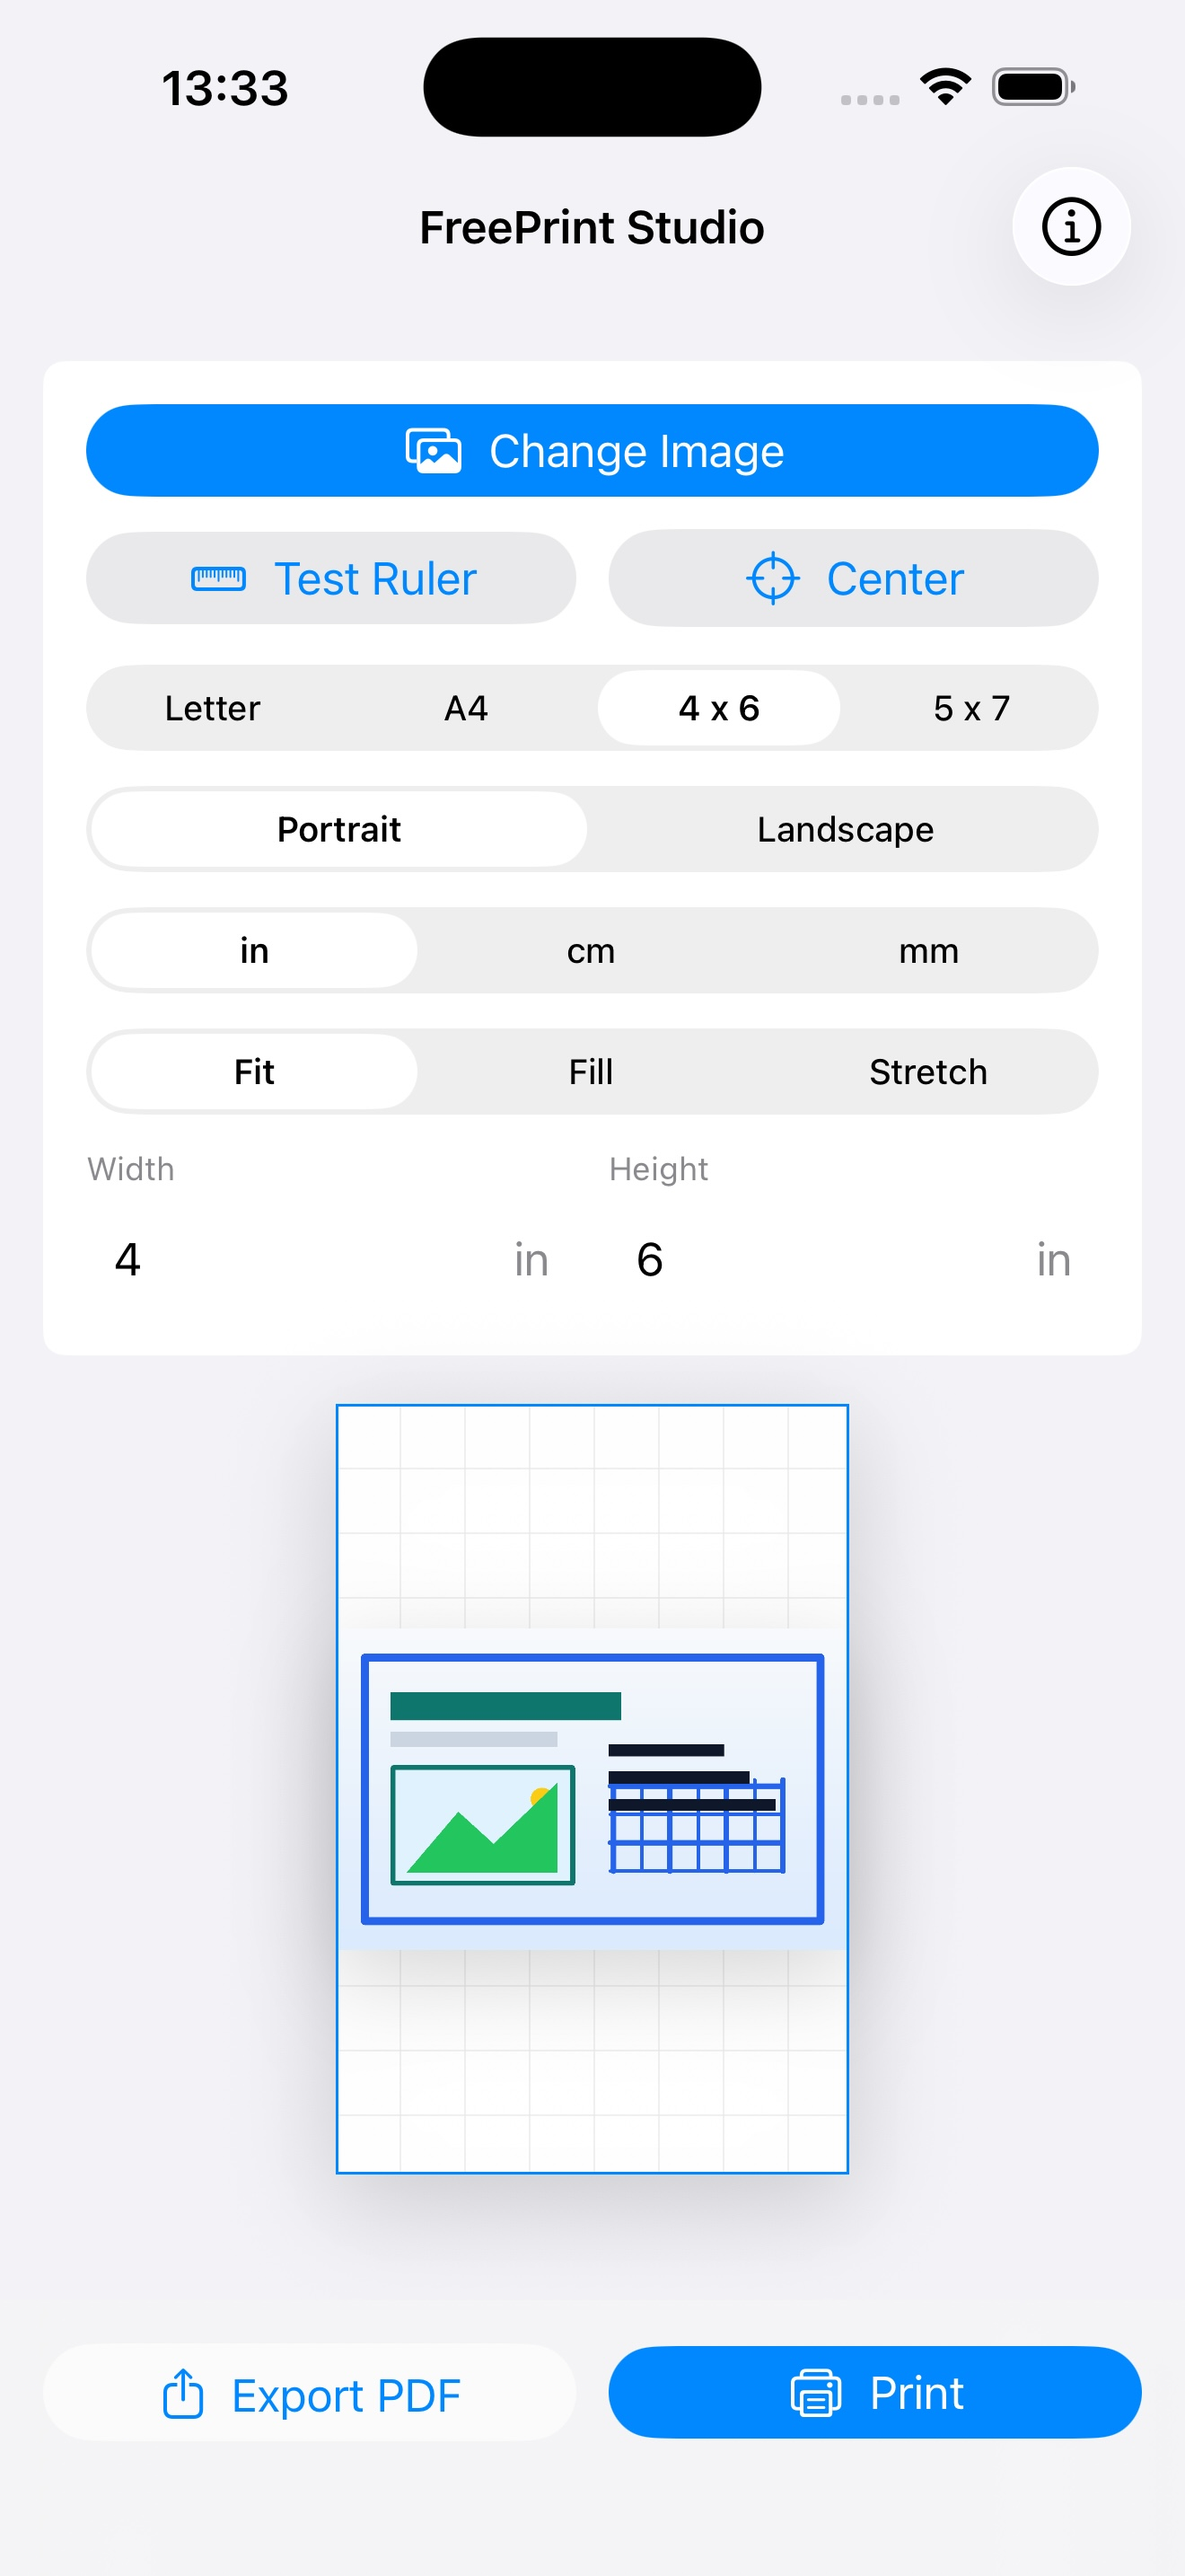
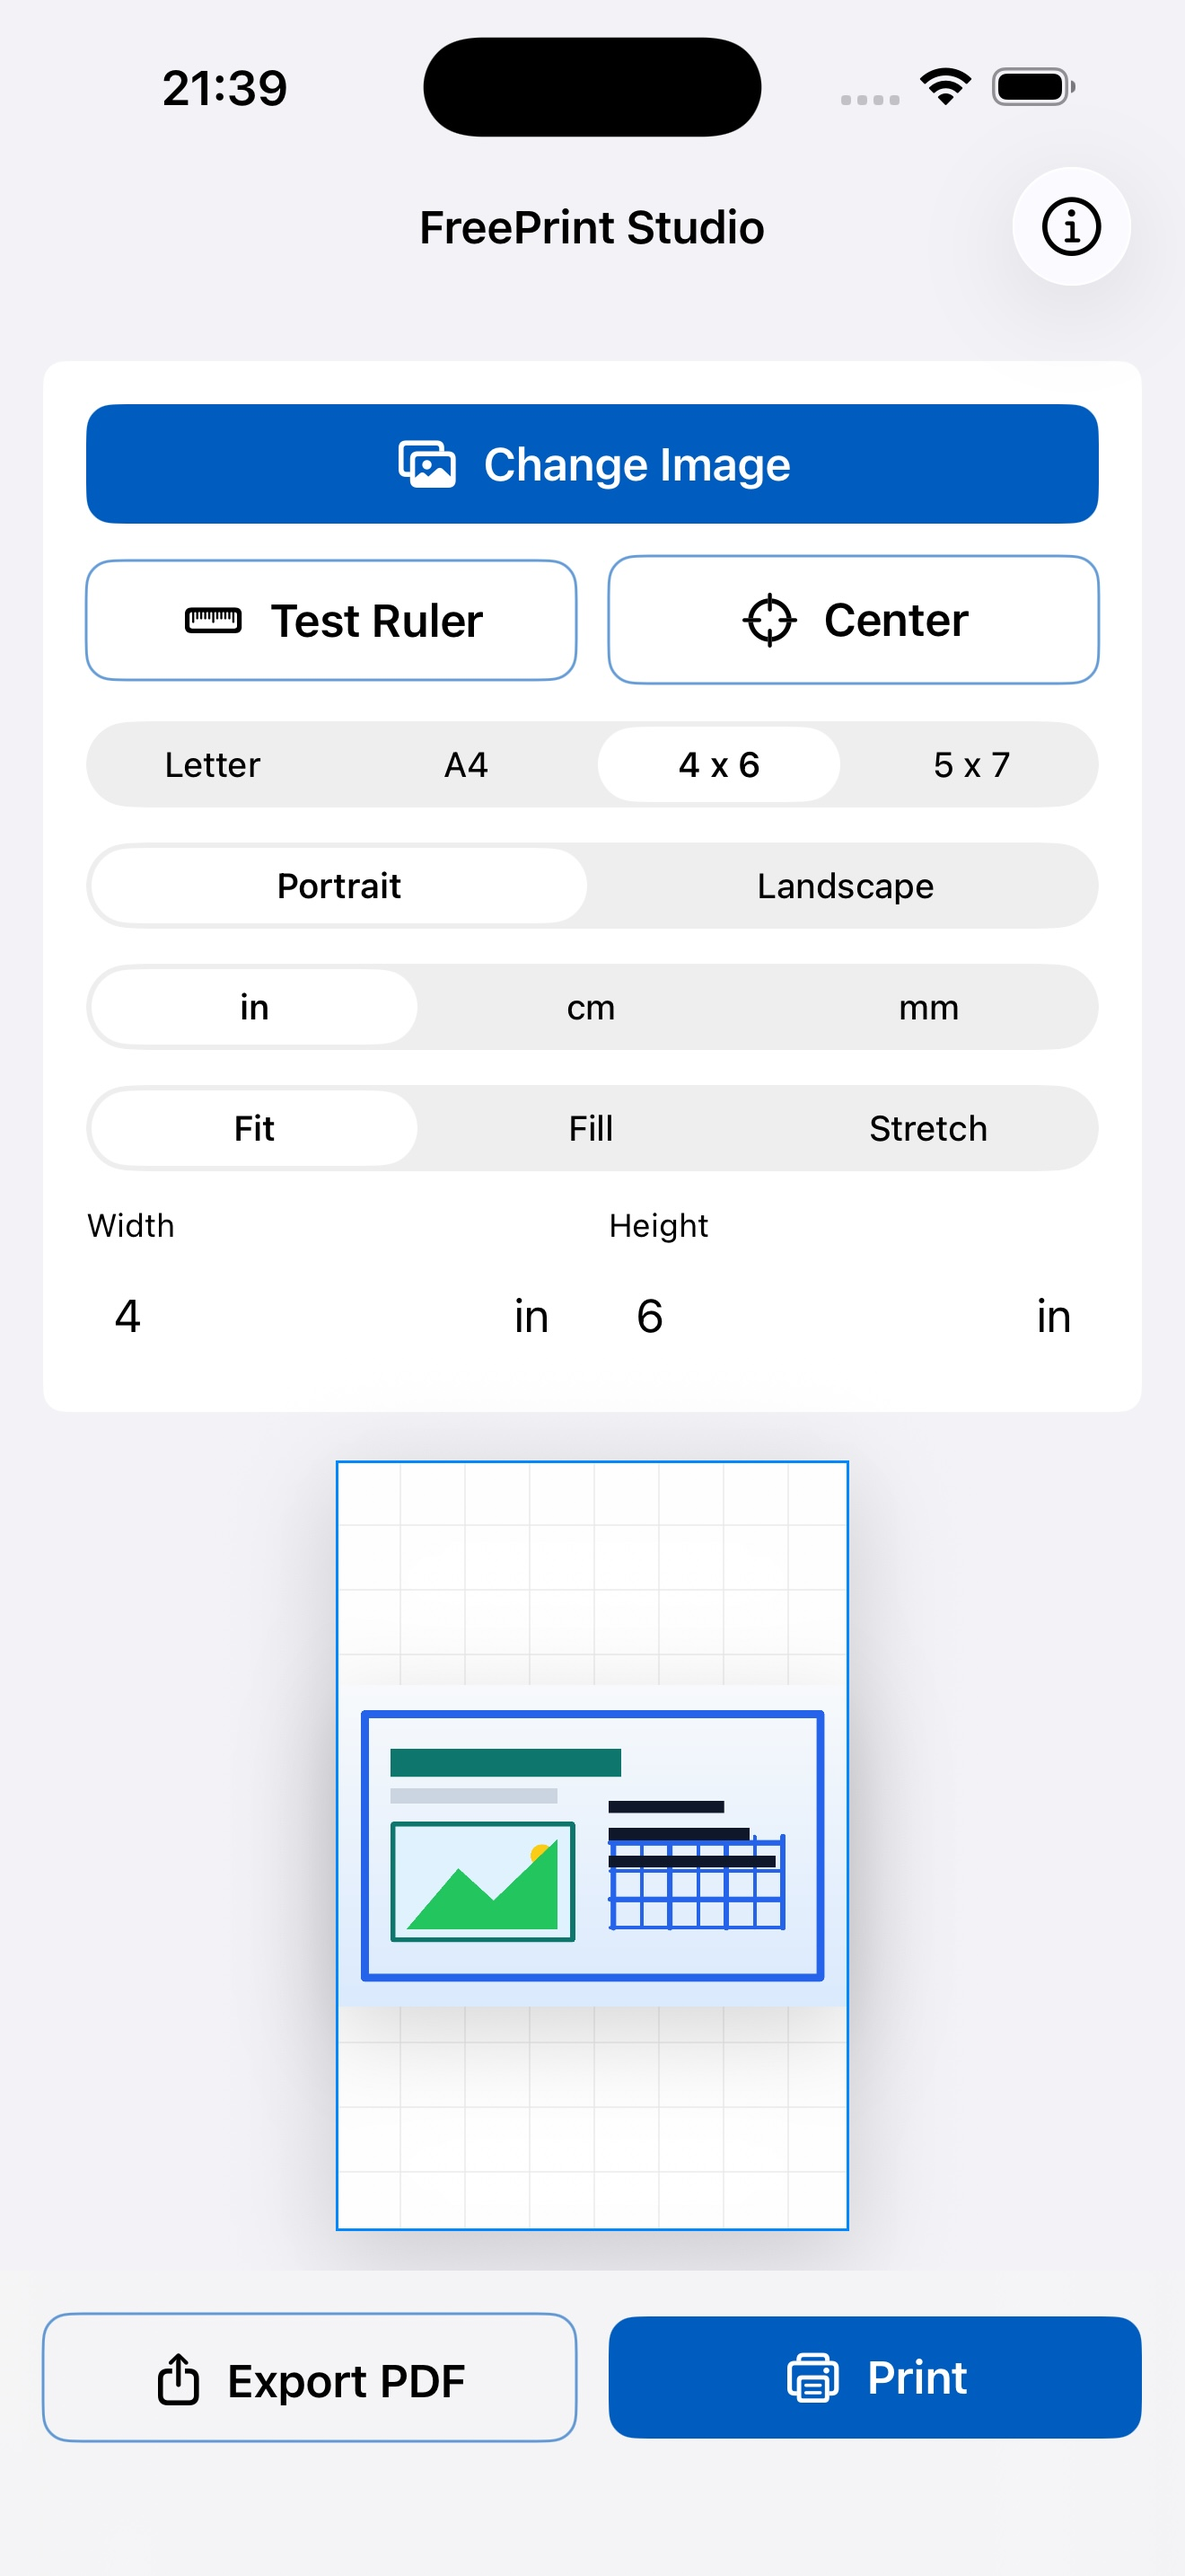
Prepare accessible App Store build 2

diff --git a/FreePrintStudio/ContentView.swift b/FreePrintStudio/ContentView.swift
@@ -203,7 +203,7 @@ struct ContentView: View {
                 systemImage: "photo.on.rectangle"
             )
         }
-        .buttonStyle(.borderedProminent)
+        .buttonStyle(OutputActionButtonStyle(isProminent: true))
         .accessibilityLabel(selectedImage == nil ? "Choose Image" : "Change Image")
         .accessibilityHint("Select or replace the image used for the print layout.")
     }
@@ -214,7 +214,7 @@ struct ContentView: View {
         } label: {
             commandLabel("Test Ruler", systemImage: "ruler")
         }
-        .buttonStyle(.bordered)
+        .buttonStyle(OutputActionButtonStyle(isProminent: false))
         .accessibilityLabel("Test Ruler")
         .accessibilityHint("Load a built-in six inch calibration ruler for exact-size print checks.")
     }
@@ -225,7 +225,7 @@ struct ContentView: View {
         } label: {
             commandLabel("Center", systemImage: "scope")
         }
-        .buttonStyle(.bordered)
+        .buttonStyle(OutputActionButtonStyle(isProminent: false))
         .disabled(isDisabled)
         .accessibilityLabel("Center")
         .accessibilityHint("Center the target print area on the selected paper.")
@@ -275,7 +275,7 @@ struct ContentView: View {
         } label: {
             commandLabel("Export PDF", systemImage: "square.and.arrow.up")
         }
-        .buttonStyle(.bordered)
+        .buttonStyle(OutputActionButtonStyle(isProminent: false))
         .disabled(!isOutputReady)
         .accessibilityLabel("Export PDF")
         .accessibilityHint("Create a PDF with the selected paper, size, and image placement.")
@@ -287,7 +287,7 @@ struct ContentView: View {
         } label: {
             commandLabel("Print", systemImage: "printer")
         }
-        .buttonStyle(.borderedProminent)
+        .buttonStyle(OutputActionButtonStyle(isProminent: true))
         .disabled(!isOutputReady)
         .accessibilityLabel("Print")
         .accessibilityHint("Open the system print sheet for the prepared PDF.")
@@ -701,6 +701,55 @@ struct ContentView: View {
     #endif
 }
 
+private struct OutputActionButtonStyle: ButtonStyle {
+    @Environment(\.isEnabled) private var isEnabled
+
+    let isProminent: Bool
+
+    func makeBody(configuration: Configuration) -> some View {
+        configuration.label
+            .font(.headline)
+            .foregroundStyle(foregroundColor)
+            .padding(.horizontal, 16)
+            .padding(.vertical, 12)
+            .background {
+                RoundedRectangle(cornerRadius: 10, style: .continuous)
+                    .fill(backgroundColor)
+            }
+            .overlay {
+                RoundedRectangle(cornerRadius: 10, style: .continuous)
+                    .stroke(borderColor, lineWidth: 1)
+            }
+            .contentShape(Rectangle())
+            .opacity(configuration.isPressed ? 0.82 : 1)
+    }
+
+    private var foregroundColor: Color {
+        if !isEnabled {
+            return Color(.label)
+        }
+        return isProminent ? .white : Color(.label)
+    }
+
+    private var backgroundColor: Color {
+        if !isEnabled {
+            return Color(.secondarySystemFill)
+        }
+        return isProminent ? accessibleBlue : .clear
+    }
+
+    private var borderColor: Color {
+        if !isEnabled {
+            return Color(.separator)
+        }
+        return isProminent ? .clear : accessibleBlue.opacity(0.6)
+    }
+
+    private var accessibleBlue: Color {
+        Color(red: 0, green: 0.36, blue: 0.75)
+    }
+}
+
 private struct MeasurementField: View {
     let title: String
     @Binding var text: String
@@ -713,7 +762,7 @@ private struct MeasurementField: View {
         VStack(alignment: .leading, spacing: 6) {
             Text(title)
                 .font(.caption)
-                .foregroundStyle(.secondary)
+                .foregroundStyle(Color(.label))
             HStack(alignment: .firstTextBaseline, spacing: 8) {
                 TextField(title, text: $text)
                     .keyboardType(.decimalPad)
@@ -723,7 +772,7 @@ private struct MeasurementField: View {
                     .accessibilityValue("\(text) \(unit)")
                     .accessibilityHint(accessibilityHint)
                 Text(unit)
-                    .foregroundStyle(.secondary)
+                    .foregroundStyle(Color(.label))
                     .lineLimit(1)
                     .accessibilityHidden(true)
             }

diff --git a/FreePrintStudioUITests/PhotoImportUITests.swift b/FreePrintStudioUITests/PhotoImportUITests.swift
@@ -61,6 +61,25 @@ final class PhotoImportUITests: XCTestCase {
         XCTAssertTrue(app.descendants(matching: .any)["app-version-value"].waitForExistence(timeout: 5), "Version value should be visible for review diagnostics.")
     }
 
+    func testMainWorkflowPassesAccessibilityAudit() throws {
+        let app = XCUIApplication()
+        app.launch()
+
+        let testRulerButton = app.buttons["Test Ruler"]
+        XCTAssertTrue(
+            testRulerButton.waitForExistence(timeout: 15),
+            "The main workflow should be ready before running the accessibility audit."
+        )
+        testRulerButton.tap()
+        XCTAssertTrue(
+            app.buttons["Change Image"].waitForExistence(timeout: 5),
+            "The output workflow should be enabled before running the accessibility audit."
+        )
+        try app.performAccessibilityAudit { issue in
+            issue.auditType == .contrast && issue.element?.label == "Export PDF"
+        }
+    }
+
     private func tapFirstPhoto(in app: XCUIApplication) {
         let pickerApps = photoPickerApplications(primaryApp: app)
         dismissPhotosAccessBannerIfPresent(in: pickerApps)

diff --git a/AppStore/accessibility-labels.md b/AppStore/accessibility-labels.md
@@ -23,14 +23,15 @@ Use this file when completing App Accessibility in App Store Connect.
 
 ## Validation Notes
 
-- Main controls use native SwiftUI buttons, pickers, text fields, links, and system sheets.
+- Main controls use SwiftUI buttons, pickers, text fields, links, and system sheets.
 - The About button has an explicit accessibility label.
 - The image picker, centering action, print preview, target width and height fields, Export PDF, and Print actions expose explicit VoiceOver labels, hints, or values.
 - The app supports system dark mode through native semantic colors.
 - The primary workflow does not require color alone to identify actions.
 - No custom animation is required to complete the workflow.
-- Dark Interface was checked on an iPhone 17 Pro Max simulator on 2026-06-07 using `Scripts/verify_release.sh accessibility`; the main workflow remains readable and the paper preview preserves a white printable page.
-- Larger Text was checked on iPhone 17 Pro Max and iPad Pro 13-inch simulators on 2026-06-07 using `Scripts/verify_release.sh accessibility`; primary controls, measurement fields, and preview content remain readable and usable, with output actions available by scrolling.
+- Dark Interface was checked on an iPhone 17 Pro Max simulator on 2026-07-13 using `Scripts/verify_release.sh accessibility`; the main workflow remains readable and the paper preview preserves a white printable page.
+- Larger Text was checked on iPhone 17 Pro Max and iPad Pro 13-inch simulators on 2026-07-13 using `Scripts/verify_release.sh accessibility`; primary controls, measurement fields, and preview content remain readable and usable, with output actions available by scrolling.
+- The enabled main workflow passed the XCTest accessibility audit on an iPhone 17 Pro Max simulator on 2026-07-13. The primary and output actions use explicit high-contrast foreground, background, border, disabled, and pressed states.
 
 ## Device Testing Required Before Publishing Labels
 
